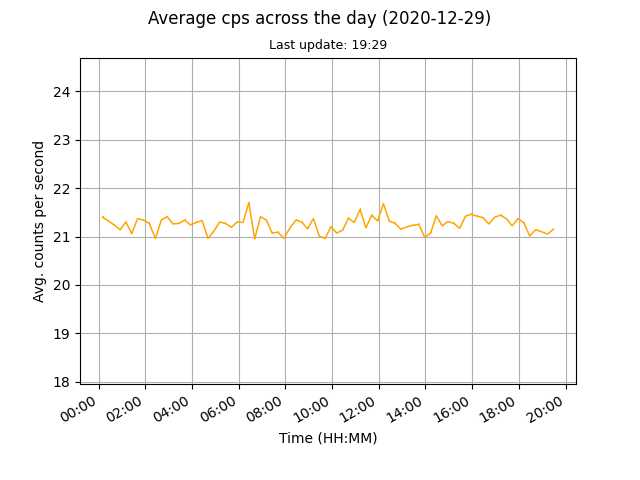
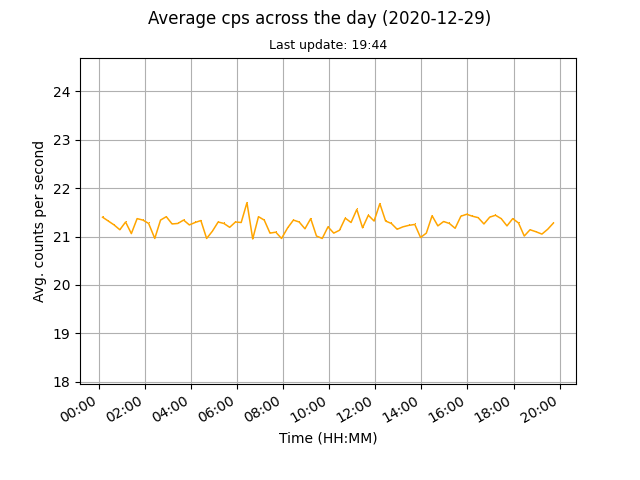
auto data update

diff --git a/docs/index.html b/docs/index.html
@@ -45,8 +45,8 @@
 	
 	<br>
 	
-	<p>Current counts per second (cps): 21.15</p>
-	<p>Last update: 2020-12-29, 19:29</p>
+	<p>Current counts per second (cps): 21.28</p>
+	<p>Last update: 2020-12-29, 19:44</p>
 
 	<p><a href="images/monthly.png"><img src="images/monthly.png" alt="Mothly avg cps data"></a><a href="images/daily.png"><img src="images/daily.png" alt="Daily avg cps data"></a></p>
 	
